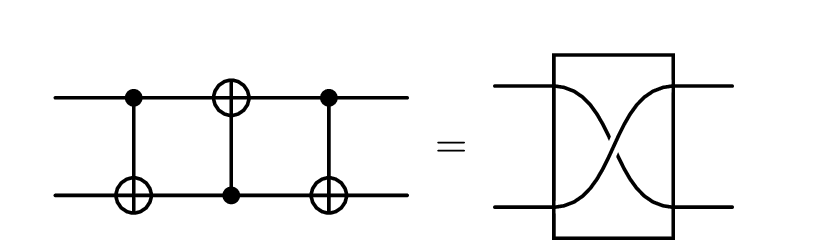
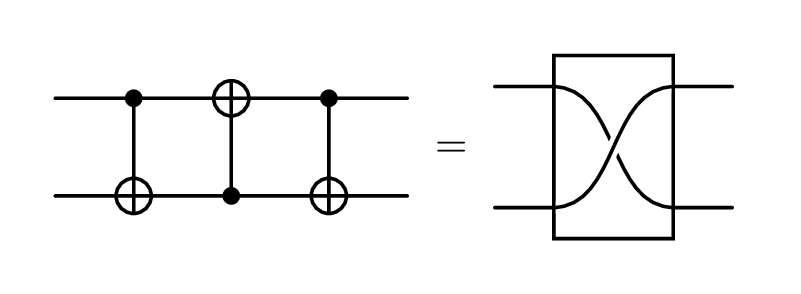
ZX calculus V2

diff --git a/src/content/blog/draft-2026-08-14-hypergraphs-zx-calc/index.md b/src/content/blog/draft-2026-08-14-hypergraphs-zx-calc/index.md
@@ -128,18 +128,197 @@ Of course computers can do these operations very quickly, but eventually even th
 
 ## The ZX-calculus
 
-The ZX-calculus is the combination of a pair of commutative special dagger Frobenius algebras, forming a scaled bialgebra.
+The ZX-calculus is a pair of commutative special dagger Frobenius algebras, which together form a scaled bialgebra.[^coecke-duncan]
+
+[^coecke-duncan]: Bob Coecke and Ross Duncan, "Interacting Quantum Observables: Categorical Algebra and Diagrammatics," *New Journal of Physics* 13, no. 4 (2011): 043016, <https://doi.org/10.1088/1367-2630/13/4/043016>.
+
+I'm currently working through [Category Theory for Programmers](https://www.blurb.co.uk/b/9621951-category-theory-for-programmers-new-edition-hardco) ([free version on the author's blog](https://bartoszmilewski.com/2014/10/28/category-theory-for-programmers-the-preface/)) to understand what on earth that means.
+I think it's basically saying that quantum observables happen to follow a bunch of symmetries and rules, which means we can work with them in beautiful ways.
+
+Luckily for us, we can happily use the ZX-calculus without any understanding of category theory.
+
+### ZX-diagrams
+
+<!-- TODO insert example diagram -->
+
+ZX-diagrams are the bread and butter of the ZX-calculus.
+They are composed (almost) entirely of red and green circles (called **spiders**), sometimes with numbers attached (**phases**), connected with various quantities of wires.
+
+Each spider, along with its phase, and number of wires, represents a matrix.[^linear-map-not-matrix]
+Wires can be joined together to make larger diagrams of spiders, again with a matrix representation.
+This system of composing building blocks turns out to be expressive enough to fully represent any quantum circuit!
+
+[^linear-map-not-matrix]: Technically it represents a linear map, which can be writted as a matrix in a given basis.[^tensor-not-linear-map]
+
+[^tensor-not-linear-map]: Technically technically it represents a tensor.
+
+Every element of a quantum circuit has a way to write it as a ZX-diagram.
+For example, the first circuit as a ZX-diagram would look like this:
+
+![](img/03-example-circuit-zx.png)
+
+This is all very fun, but to be honest this might be harder to read, what's the point?
+This is where the rules of the ZX-calculus comes in!
+
+It turns out that lots of different ZX-diagrams can represent the same quantum circuit, and the ZX-calculus provides rules which allow us to move between them.
+
+For example, in the diagram above, we can move the green spider with the $\pi$ in it through the spider to its left.
+If you compare the two diagrams, you'll see that what we did was move the Z gate to before the CNOT gate.
+And, if you worked out the linear algebra, you'd see that those two circuits were entirely equivalent operations!
+
+That was an example of an application of the **spider fusion** (**sp**) rule. [^spider-unfusion]
+
+[^spider-unfusion]: And then applying it in reverse, colloquially 'unfusion'
+
+Below are 7 such rules (including spider fusion) which form the standard rules of the ZX-calculus.
+
+![](img/zx-rules.png)
 
 {% zxDiagram %}
 {
   "nodes": [
-    { "id": 0, "type": "input",  "ioId": 0 },
-    { "id": 1, "type": "spider", "color": "Z", "phase": "π/2" },
-    { "id": 2, "type": "output", "ioId": 0 }
+    { "id": 0, "qubit": 0, "col": 0, "type": "input",  "ioId": 0 },
+    { "id": 1, "qubit": 0, "col": 1, "type": "spider", "color": "Z" },
+    { "id": 2, "qubit": 0, "col": 2, "type": "spider", "color": "X" },
+    { "id": 3, "qubit": 0, "col": 3, "type": "spider", "color": "Z" },
+    { "id": 4, "qubit": 0, "col": 4, "type": "output", "ioId": 1 },
+    { "id": 5, "qubit": 1, "col": 0, "type": "input",  "ioId": 2 },
+    { "id": 6, "qubit": 1, "col": 1, "type": "spider", "color": "X" },
+    { "id": 7, "qubit": 1, "col": 2, "type": "spider", "color": "Z" },
+    { "id": 8, "qubit": 1, "col": 3, "type": "spider", "color": "X" },
+    { "id": 9, "qubit": 1, "col": 4, "type": "input",  "ioId": 3 }
   ],
   "edges": [
     { "src": 0, "tgt": 1 },
-    { "src": 1, "tgt": 2 }
+    { "src": 1, "tgt": 2 },
+    { "src": 2, "tgt": 3 },
+    { "src": 3, "tgt": 4 },
+
+    { "src": 5, "tgt": 6 },
+    { "src": 6, "tgt": 7 },
+    { "src": 7, "tgt": 8 },
+    { "src": 8, "tgt": 9 },
+
+    { "src": 1, "tgt": 6 },
+    { "src": 2, "tgt": 7 },
+    { "src": 3, "tgt": 8 }
+  ]
+}
+{% endzxDiagram %}
+
+{% zxDiagram %}
+{
+  "nodes": [
+    { "id": 0, "qubit": 0, "col": 0, "type": "input",  "ioId": 0 },
+    { "id": 1, "qubit": 0, "col": 1, "type": "spider", "color": "Z" },
+    { "id": 2, "qubit": 0, "col": 2, "type": "spider", "color": "X" },
+    { "id": 3, "qubit": 1, "col": 3, "type": "spider", "color": "Z" },
+    { "id": 4, "qubit": 0, "col": 4, "type": "output", "ioId": 1 },
+    { "id": 5, "qubit": 1, "col": 0, "type": "input",  "ioId": 2 },
+    { "id": 6, "qubit": 1, "col": 1, "type": "spider", "color": "X" },
+    { "id": 7, "qubit": 1, "col": 2, "type": "spider", "color": "Z" },
+    { "id": 8, "qubit": 0, "col": 3, "type": "spider", "color": "X" },
+    { "id": 9, "qubit": 1, "col": 4, "type": "input",  "ioId": 3 }
+  ],
+  "edges": [
+    { "src": 0, "tgt": 1 },
+    { "src": 1, "tgt": 2 },
+    { "src": 2, "tgt": 3 },
+    { "src": 3, "tgt": 4 },
+
+    { "src": 5, "tgt": 6 },
+    { "src": 6, "tgt": 7 },
+    { "src": 7, "tgt": 8 },
+    { "src": 8, "tgt": 9 },
+
+    { "src": 1, "tgt": 6 },
+    { "src": 2, "tgt": 7 },
+    { "src": 3, "tgt": 8 }
+  ]
+}
+{% endzxDiagram %}
+
+{% zxDiagram %}
+{
+  "nodes": [
+    { "id": 0, "qubit": 0, "col": 0, "type": "input",  "ioId": 0 },
+    { "id": 1, "qubit": 0, "col": 1, "type": "spider", "color": "Z" },
+    { "id": 2, "qubit": 0, "col": 2, "type": "spider", "color": "Z" },
+    { "id": 3, "qubit": 0, "col": 3, "type": "output", "ioId": 1 },
+    { "id": 4, "qubit": 1, "col": 0, "type": "input",  "ioId": 2 },
+    { "id": 5, "qubit": 1, "col": 1, "type": "spider", "color": "X" },
+    { "id": 6, "qubit": 1, "col": 2, "type": "spider", "color": "X" },
+    { "id": 7, "qubit": 1, "col": 3, "type": "input",  "ioId": 3 }
+  ],
+  "edges": [
+    { "src": 0, "tgt": 1 },
+    { "src": 1, "tgt": 2 },
+    { "src": 2, "tgt": 7 },
+
+    { "src": 4, "tgt": 5 },
+    { "src": 5, "tgt": 6 },
+    { "src": 6, "tgt": 3 },
+
+    { "src": 1, "tgt": 5 },
+    { "src": 2, "tgt": 6 }
+  ]
+}
+{% endzxDiagram %}
+
+{% zxDiagram %}
+{
+  "nodes": [
+    { "id": 0, "qubit": 0, "col": 0, "type": "input",  "ioId": 0 },
+    { "id": 1, "qubit": 0, "col": 1, "type": "spider", "color": "Z" },
+    { "id": 3, "qubit": 0, "col": 2, "type": "output", "ioId": 1 },
+    { "id": 4, "qubit": 1, "col": 0, "type": "input",  "ioId": 2 },
+    { "id": 5, "qubit": 1, "col": 1, "type": "spider", "color": "X" },
+    { "id": 7, "qubit": 1, "col": 2, "type": "input",  "ioId": 3 }
+  ],
+  "edges": [
+    { "src": 0, "tgt": 1 },
+    { "src": 1, "tgt": 7 },
+
+    { "src": 4, "tgt": 5 },
+    { "src": 5, "tgt": 3 },
+
+    { "src": 1, "tgt": 5 },
+    { "src": 1, "tgt": 5 }
+  ]
+}
+{% endzxDiagram %}
+
+{% zxDiagram %}
+{
+  "nodes": [
+    { "id": 0, "qubit": 0, "col": 0, "type": "input",  "ioId": 0 },
+    { "id": 1, "qubit": 0, "col": 1, "type": "spider", "color": "Z" },
+    { "id": 3, "qubit": 0, "col": 2, "type": "output", "ioId": 1 },
+    { "id": 4, "qubit": 1, "col": 0, "type": "input",  "ioId": 2 },
+    { "id": 5, "qubit": 1, "col": 1, "type": "spider", "color": "X" },
+    { "id": 7, "qubit": 1, "col": 2, "type": "input",  "ioId": 3 }
+  ],
+  "edges": [
+    { "src": 0, "tgt": 1 },
+    { "src": 1, "tgt": 7 },
+
+    { "src": 4, "tgt": 5 },
+    { "src": 5, "tgt": 3 }
+  ]
+}
+{% endzxDiagram %}
+
+{% zxDiagram %}
+{
+  "nodes": [
+    { "id": 0, "qubit": 0, "col": 0, "type": "input",  "ioId": 0 },
+    { "id": 3, "qubit": 0, "col": 1, "type": "output", "ioId": 1 },
+    { "id": 4, "qubit": 1, "col": 0, "type": "input",  "ioId": 2 },
+    { "id": 7, "qubit": 1, "col": 1, "type": "input",  "ioId": 3 }
+  ],
+  "edges": [
+    { "src": 0, "tgt": 7 },
+    { "src": 4, "tgt": 3 }
   ]
 }
 {% endzxDiagram %}

diff --git a/src/content/blog/draft-2026-08-14-hypergraphs-zx-calc/img/README.md b/src/content/blog/draft-2026-08-14-hypergraphs-zx-calc/img/README.md
@@ -1,10 +1,11 @@
 ---
 eleventyExcludeFromCollections: true
 ---
-Quantikz circuits generated with [qzfr](https://github.com/adnathanail/qzfr)
+Quantikz/TikZit circuits generated with [qzfr](https://github.com/adnathanail/qzfr)
 
 ```sh
 cd src/content/blog/draft-2026-08-14-hypergraphs-zx-calc/img
-export DOCKER_DEFAULT_PLATFORM=linux/amd64.  # Only needed for M-series Macs
+export DOCKER_DEFAULT_PLATFORM=linux/amd64  # Only needed for M-series Macs
+
 docker run --rm -v .:/work/data adnathanail/qzfr 05-01-shors.tex
 ```
